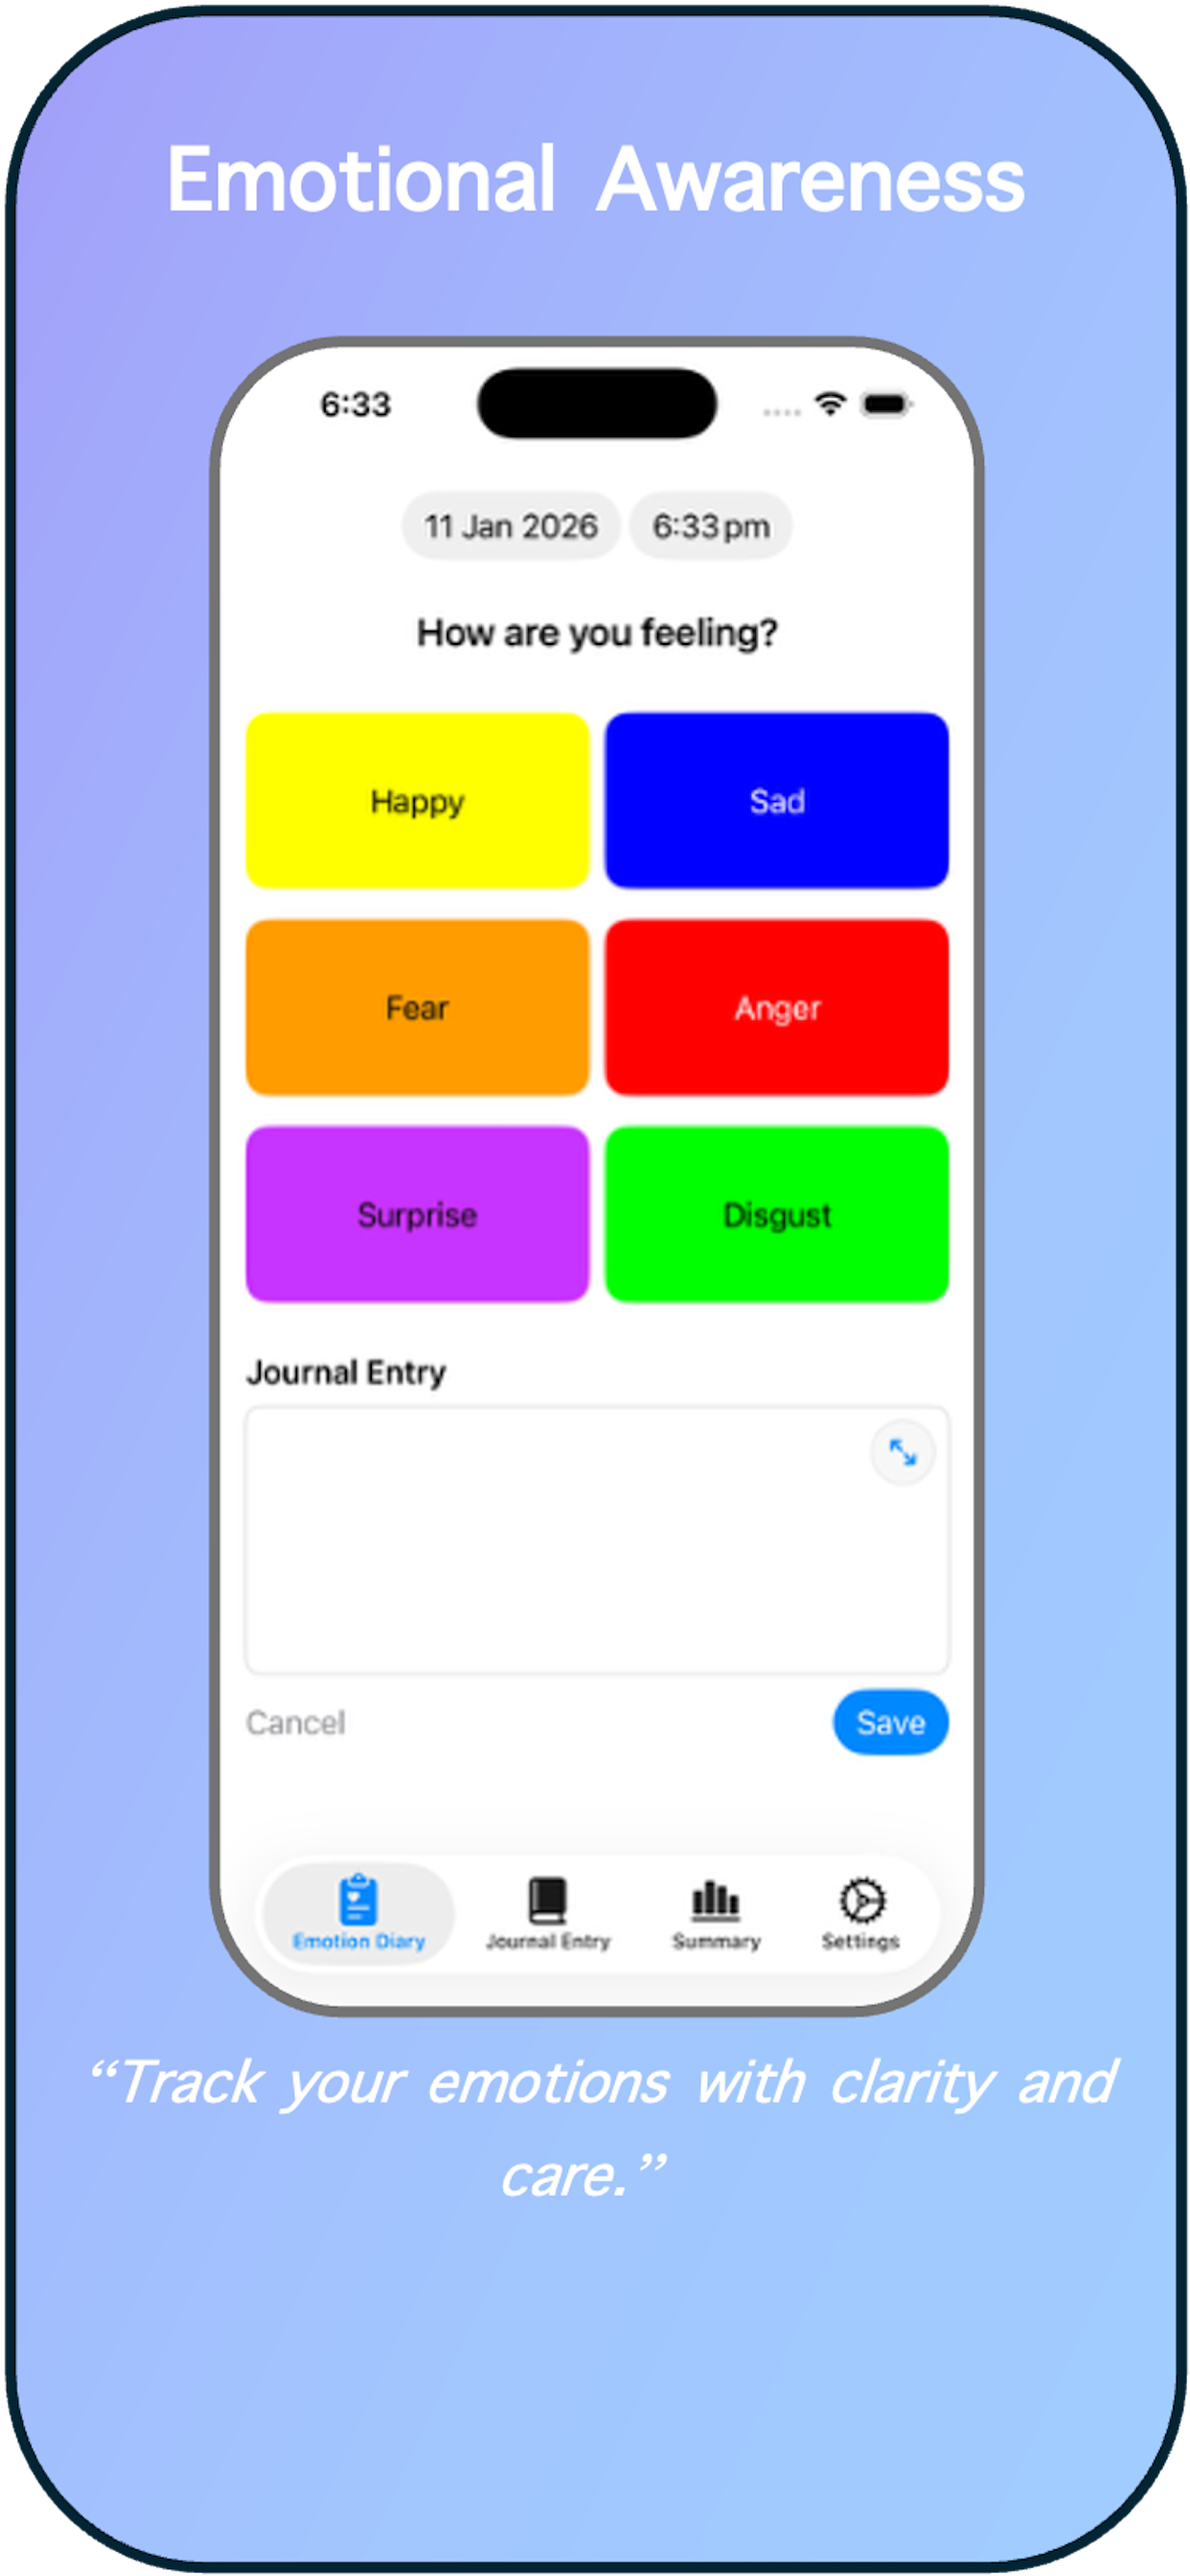
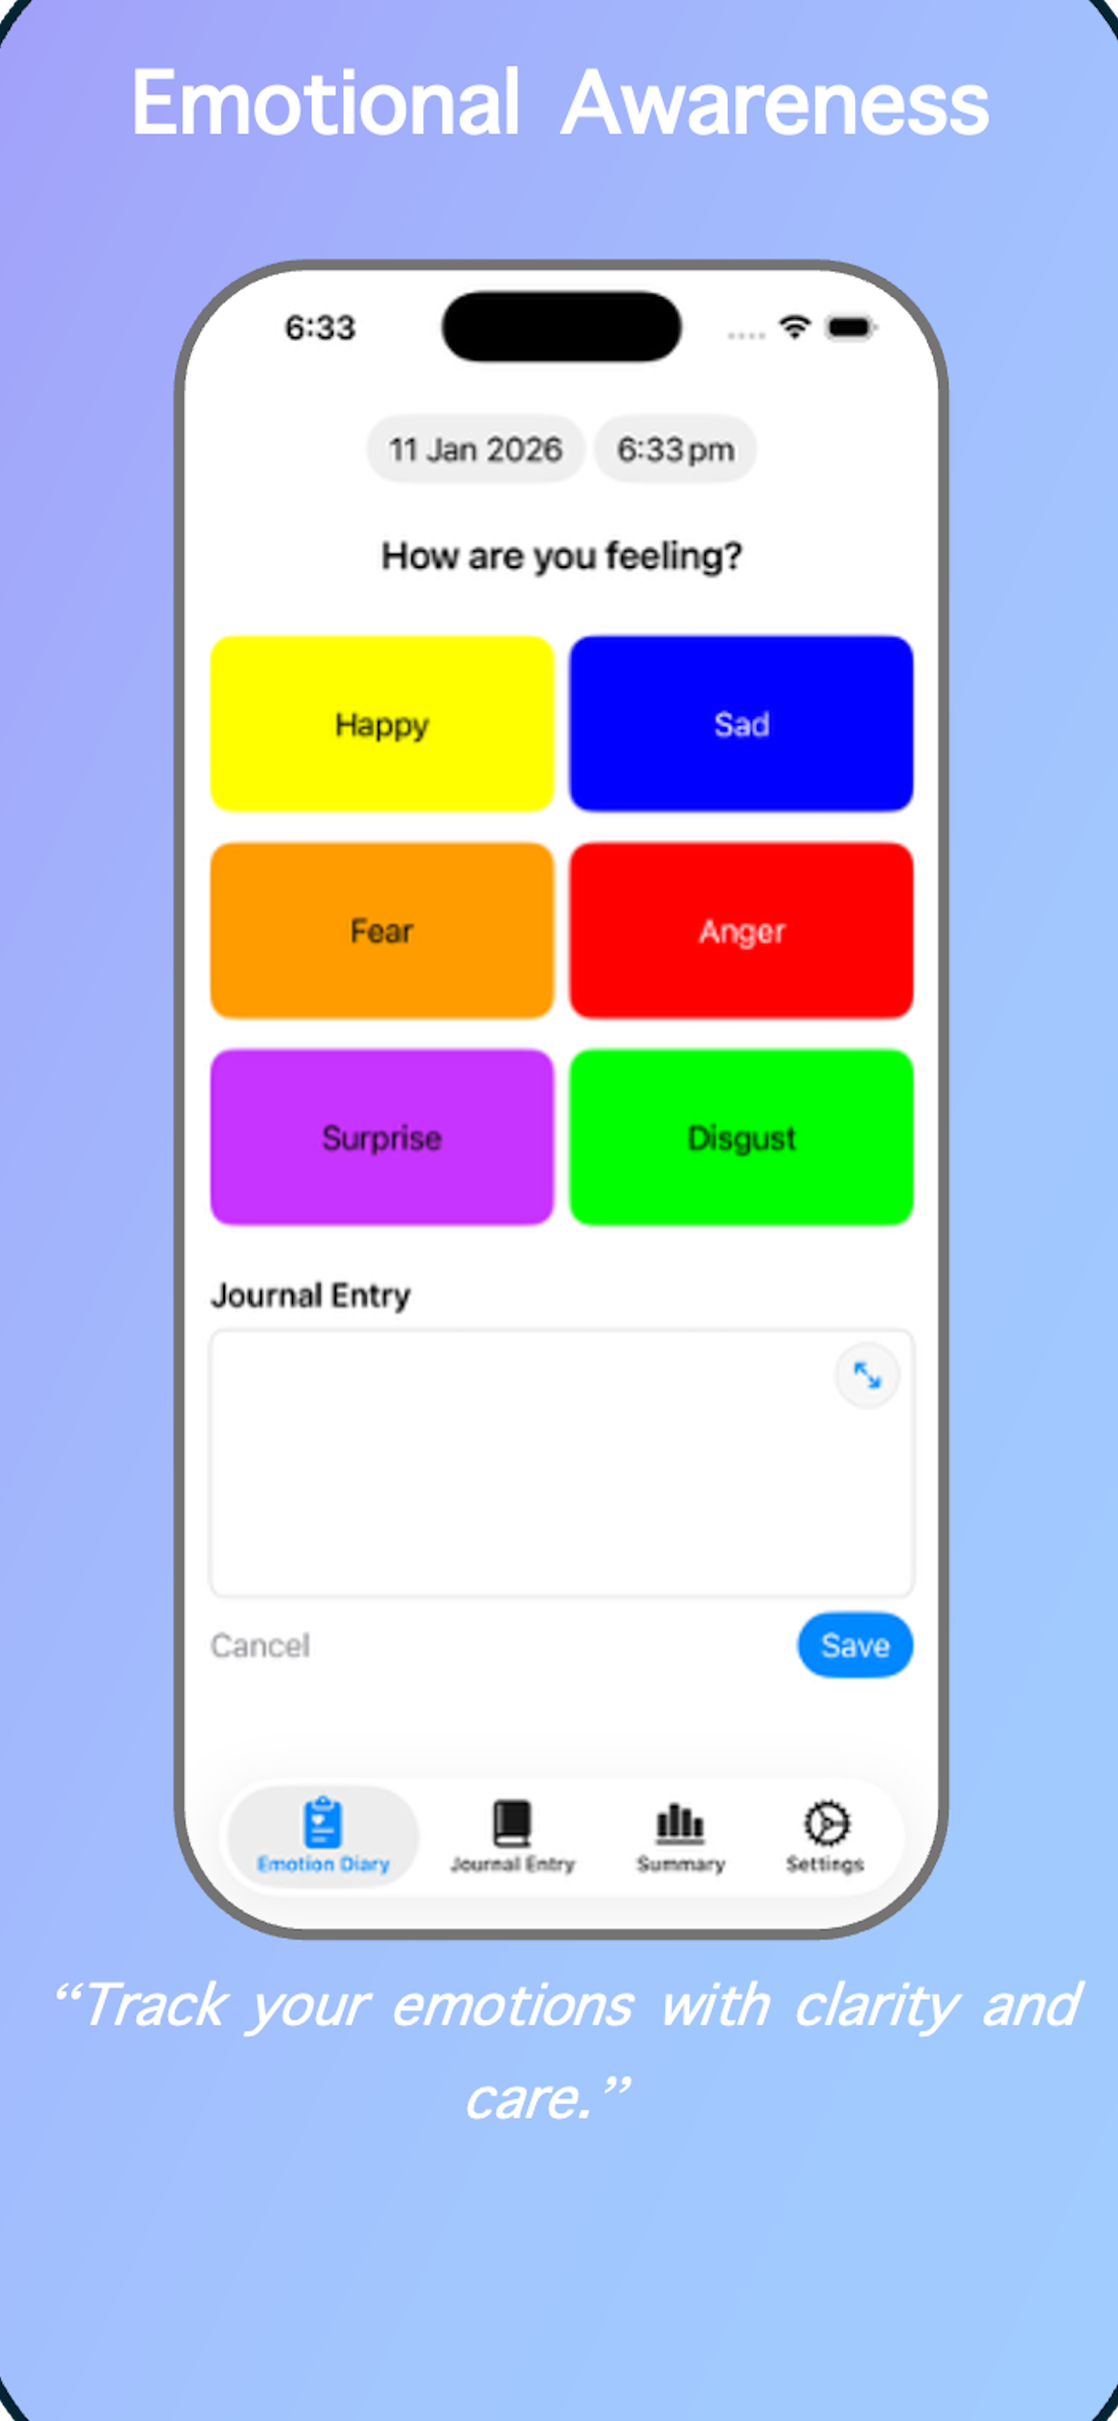
Crop white canvas margin from screenshot source images and tune corner radius

Changed region(s): [[0.0, 0.0, 1.0, 1.0]]

diff --git a/index.html b/index.html
@@ -75,7 +75,12 @@
     .screenshot-frame {
       height: 440px;
       width: 203px;
-      border-radius: 22px;
+      /* Source screenshots are pre-cropped by 3% per side (see
+         assets/screenshots/) to remove a white canvas margin baked into
+         the original App Store art — most pronounced at the rounded
+         corners, since a rounded card inscribed in a square canvas can't
+         reach the canvas's own corners. This radius clips what's left. */
+      border-radius: 32px;
       box-shadow: 0 10px 30px rgba(0, 0, 0, 0.18);
       overflow: hidden;
       scroll-snap-align: center;
